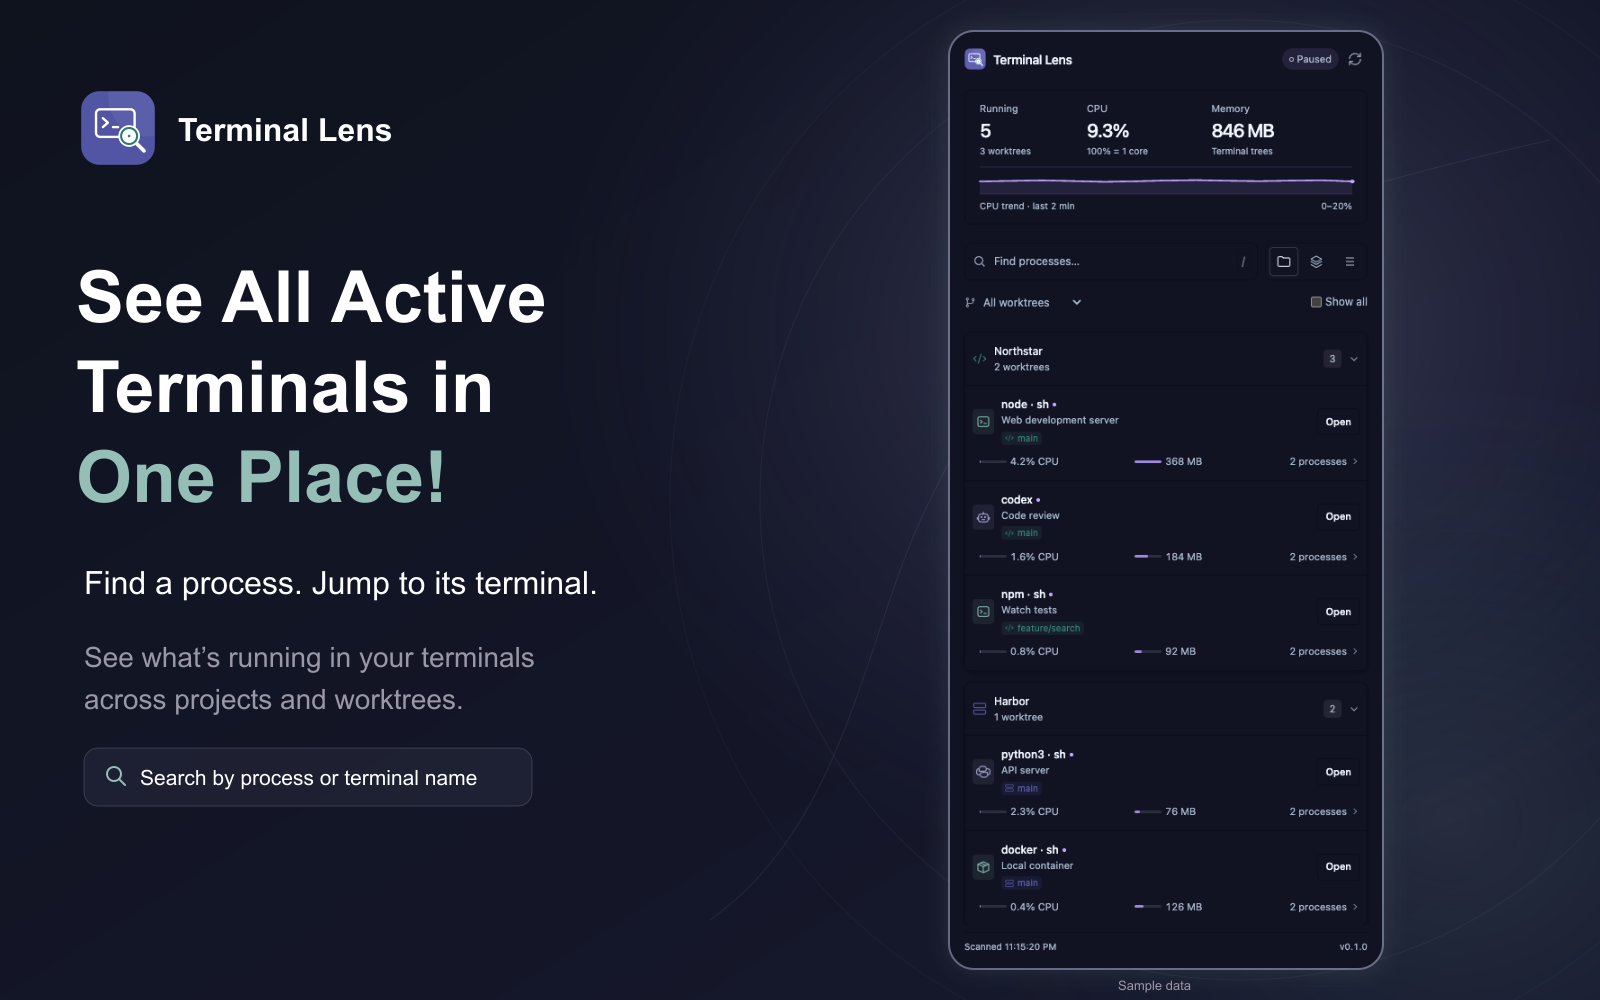
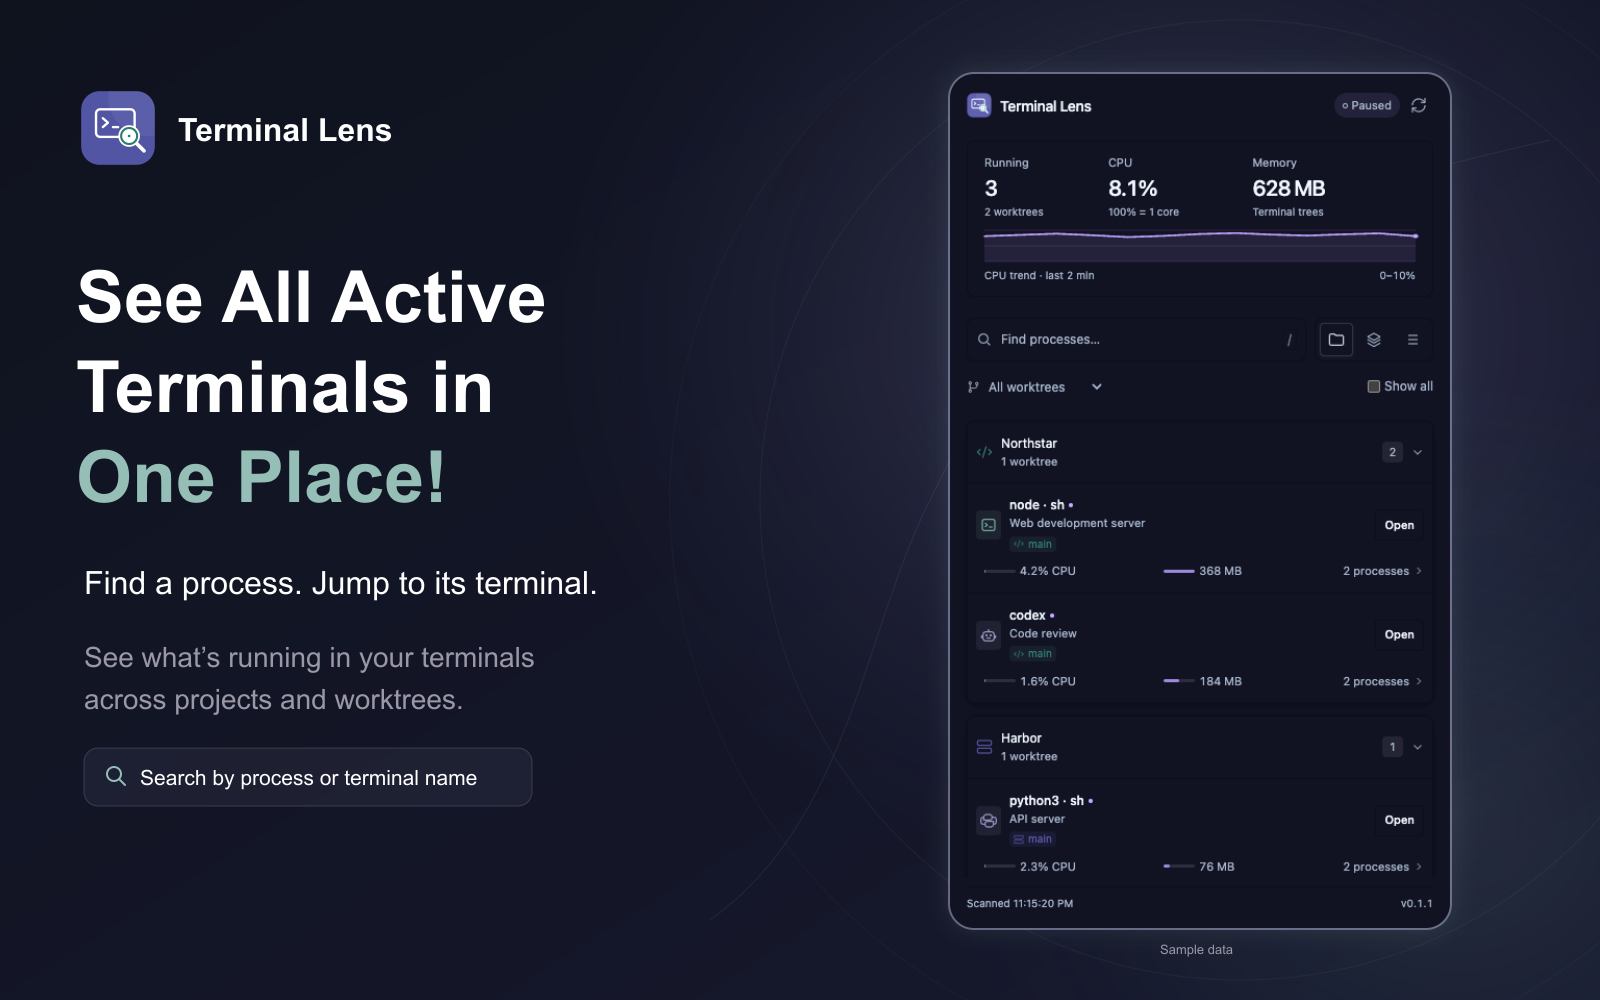
Terminal Lens 0.1.1

diff --git a/panel/index.html b/panel/index.html
@@ -47,7 +47,7 @@
       <div id="groups" aria-label="Terminals by worktree"></div>
       <div id="empty" class="empty" hidden><span data-icon="terminal"></span><h2 id="empty-title"></h2><p id="empty-detail"></p></div>
     </div>
-    <footer aria-label="Plugin information"><span id="updated">Waiting for first scan</span><span class="plugin-version" aria-label="Plugin version 0.1.0" title="Terminal Lens version 0.1.0">v0.1.0</span></footer>
+    <footer aria-label="Plugin information"><span id="updated">Waiting for first scan</span><span class="plugin-version" aria-label="Plugin version 0.1.1" title="Terminal Lens version 0.1.1">v0.1.1</span></footer>
   </main>
   <script type="module" src="./panel.js"></script>
 </body>

diff --git a/docs/RELEASING.md b/docs/RELEASING.md
@@ -14,6 +14,6 @@ Run **npm run release:export** after **npm run check**. The clean source snapsho
 
 Use **npm run assets:capture** with the Orca desktop app running. This starts a loopback-only fixture server, creates one browser tab, waits for sample charts, and captures the project panel for the cover. It changes the backdrop to one uniform dark shade only in that preview page. It generates the SVG/PNG artwork, then closes its tab and stops the server. It never requests real terminal data.
 
-The script reuses **ORCA_CLI_COMMAND** when set, otherwise the standard Orca executable for the host. For manual preview, run **npm run preview:release** and open **http://127.0.0.1:43192/panel/index.html?theme=dark&view=project** in Orca. Capture at 480 × 1040 after **window.__captureReady** resolves; the source capture is **assets/source/panel-demo-dark.png**.
+The script reuses **ORCA_CLI_COMMAND** when set, otherwise the standard Orca executable for the host. For manual preview, run **npm run preview:release** and open **http://127.0.0.1:43192/panel/index.html?theme=dark&view=project** in Orca. Capture at 480 × 820 after **window.__captureReady** resolves; the source capture is **assets/source/panel-demo-dark.png**. The sample uses three terminal rows so the shorter panel can appear larger on the cover.
 
 Run **npm run assets:generate** after changing the panel capture or vector artwork. This produces the icon, cover, and social image. The cover brightens the sample panel and adds a violet/mint glow; the installed panel keeps Orca’s theme. Sharp is a pinned development dependency. Stop manual preview servers and close their tabs when done.

diff --git a/RELEASE.md b/RELEASE.md
@@ -1,6 +1,6 @@
 # Releasing Terminal Lens
 
-Release version: **0.1.0**, tag **v0.1.0**.
+Release version: **0.1.1**, tag **v0.1.1**.
 
 ## Repository content
 
@@ -18,7 +18,7 @@ npm run check
 orca plugin validate . --json
 ```
 
-Checks validate package, lockfile, manifest and footer versions; changelog notes; file and image budgets; entry points; runtime imports; and the exact publishing file allowlist. The audit rejects machine-specific paths, image text metadata, private dependency sources, and symlinks. Process behavior and release automation use controlled fixtures.
+Checks validate package, lockfile, manifest and footer versions; changelog notes; file and image budgets; entry points; runtime imports; and the exact publishing file allowlist. The audit rejects machine-specific paths, image text metadata, private dependency sources, symlinks, Finder metadata, executables, native modules, archives, bytecode, and unsupported binaries. In Git repositories it inspects every tracked file, including ignored files already in the index. Process behavior and release automation use controlled fixtures.
 
 ## GitHub setup
 
@@ -49,7 +49,7 @@ git push origin main
 The versioned install reference is:
 
 ```text
-https://github.com/faisalmuhammad/orca-terminal-lens#v0.1.0
+https://github.com/faisalmuhammad/orca-terminal-lens#v0.1.1
 ```
 
 After publication, generate the Orca catalog entry from the published commit with **orca plugin release-entry . --json**. Catalog submission is separate from GitHub release automation. Published tags must remain unchanged. Check the listing at https://www.onorca.dev/plugins/faisalmuhammad/orca-terminal-lens.

diff --git a/README.md b/README.md
@@ -8,7 +8,7 @@ Find processes running in your terminals inside [Orca](https://onorca.dev). Sear
 
 ![See All Active Terminals in One Place! Terminal Lens with a sample process list](assets/cover.png)
 
-Version **0.1.0**. The release process is documented in [RELEASE.md](RELEASE.md).
+Version **0.1.1**. The release process is documented in [RELEASE.md](RELEASE.md).
 
 ## Install
 
@@ -20,10 +20,10 @@ Install a versioned release:
 2. Choose **Add plugin → From a Git URL…** and enter:
 
    ```text
-   https://github.com/faisalmuhammad/orca-terminal-lens#v0.1.0
+   https://github.com/faisalmuhammad/orca-terminal-lens#v0.1.1
    ```
 
-   Keep `#v0.1.0` at the end to install the release tag.
+   Keep `#v0.1.1` at the end to install the release tag.
 3. Review and approve the **trusted worker**, **workspace discovery and navigation**, and **terminal read** access.
 4. Open **Terminal Lens** from the terminal icon in the sidebar.
 
@@ -32,7 +32,7 @@ All runtime assets are included. Installation needs no separate Node.js installa
 CLI alternative:
 
 ```sh
-orca plugin install faisalmuhammad/orca-terminal-lens@v0.1.0 --json
+orca plugin install faisalmuhammad/orca-terminal-lens@v0.1.1 --json
 ```
 
 For local use before publication, add the plugin folder through **Settings → Plugins → Development folders…**. The cover renders the actual panel with fictional sample data; its uniform dark background and glow are image treatments. See [artwork provenance](assets/README.md).

diff --git a/assets/README.md b/assets/README.md
@@ -12,6 +12,6 @@ Editable SVGs and the demo panel capture are in `assets/source/` in the source r
 
 The cover explains process discovery across projects and worktrees with process agnostic copy and a concise search feature label. Its supporting copy and feature treatment take inspiration from the Assets Library and Feeds covers. The embedded panel preview uses one uniform dark background derived from the approved foreground token, with a violet/mint glow; these are artwork treatments only.
 
-The panel capture is created by `scripts/preview-release.mjs`, rendering the current panel with a mock bridge. Projects, worktrees, PIDs, and resource samples are fictional. That bridge is used only by the preview server and is excluded from the plugin archive. The cover provides the panel preview without a separate screenshot gallery.
+The panel capture is created by `scripts/preview-release.mjs`, rendering the current panel with a mock bridge. It uses three terminal rows at 480 × 820, displayed larger in a shorter cover preview. Projects, worktrees, PIDs, and resource samples are fictional. That bridge is used only by the preview server and is excluded from the plugin archive. The cover provides the panel preview without a separate screenshot gallery.
 
 See [the release guide](../docs/RELEASING.md) to regenerate screenshots and artwork. Upload `social.png` in the GitHub repository's Settings → General → Social preview; it is separate from Orca's cover field.

diff --git a/docs/github-upload.md b/docs/github-upload.md
@@ -13,6 +13,8 @@ The export includes:
 
 It excludes local Orca state, SDK types, design proposals, environment files, dependencies, private paths, caches, logs, archives, and workspace instructions. The snapshot refuses to replace an existing Git checkout. Move the exported files into your repository before regenerating an export.
 
+Remove any previously tracked **assets/.DS_Store** and other Finder metadata from your GitHub repository before committing the new release. Git ignores apply to local Git operations; GitHub's browser upload does not apply .gitignore. The release check now audits every tracked file and rejects metadata, native binaries, archives, bytecode, symlinks, and TTF/OTF fonts. Supported image files and WOFF/WOFF2 fonts are permitted.
+
 ## After upload
 
 Enable Actions and allow the workflow to create version tags. A successful push to **main** automatically publishes the manifest version with changelog notes and no attached archives. Add the **orca-plugin** repository topic and choose **assets/social.png** for GitHub's Social preview setting.

diff --git a/COMPATIBILITY.md b/COMPATIBILITY.md
@@ -1,6 +1,6 @@
 # Compatibility
 
-Terminal Lens 0.1.0 requires Orca desktop 1.4.260 or newer and its compatible CLI on a macOS or Linux host. The runtime ships as JavaScript and requires no separate dependency installation or build step. Windows process inspection is outside this release.
+Terminal Lens 0.1.1 requires Orca desktop 1.4.260 or newer and its compatible CLI on a macOS or Linux host. The runtime ships as JavaScript and requires no separate dependency installation or build step. Windows process inspection is outside this release.
 
 ## Terminal ownership
 

diff --git a/CHANGELOG.md b/CHANGELOG.md
@@ -1,5 +1,11 @@
 # Changelog
 
+## 0.1.1
+
+- Remove macOS Finder metadata from publication files.
+- Reject executables, native modules, archives, bytecode, unsupported binary content, and symlinks in publishing checks.
+- Audit all Git-tracked files before release, including files outside the export allowlist or matching ignore rules.
+
 ## 0.1.0
 
 First public release of Terminal Lens: find processes running in Orca terminals and jump directly to their panes.
